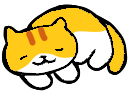
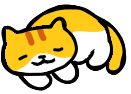
Dynamic Companion Moods, Reoutline Some Cats

Changed region(s): [[0.0, 0.0435, 0.9771, 1.0]]

diff --git a/images.js b/images.js
@@ -5,6 +5,23 @@ export const ImageDirectory = {
         'evening': require('./assets/backgrounds/roomevening.png'),
         'night': require('./assets/backgrounds/roomnight.png'),
     },
+    'angry' : {
+        '1': require('./assets/moods/angry/1.gif'),
+        '2': require('./assets/moods/angry/2.gif'),
+        '3': require('./assets/moods/angry/3.gif'),
+        '4': require('./assets/moods/angry/4.gif'),
+        '5': require('./assets/moods/angry/5.gif'),
+    },
+    'happy' : {
+        '1': require('./assets/moods/happy/1.gif'),
+        '2': require('./assets/moods/happy/2.gif'),
+        '3': require('./assets/moods/happy/3.gif'),
+        '4': require('./assets/moods/happy/4.gif'),
+        '5': require('./assets/moods/happy/5.gif'),
+    },
+    'tired' : {
+        '1' : require('./assets/moods/tired/1.gif'),
+    },
     'mack': {
         '1': require('./assets/mack/mack1.png'),
         '2': require('./assets/mack/mack2.png'),
@@ -20,6 +37,7 @@ export const ImageDirectory = {
         '12': require('./assets/mack/mack12.png'),
         '13': require('./assets/mack/mack13.png'),
         '14': require('./assets/mack/mack14.png'),
+        'angry': require('./assets/mack/mackangry.png'),
     },
     'pickles': {
         '1': require('./assets/pickles/pickles1.png'),
@@ -36,6 +54,7 @@ export const ImageDirectory = {
         '12': require('./assets/pickles/pickles12.png'),
         '13': require('./assets/pickles/pickles13.png'),
         '14': require('./assets/pickles/pickles14.png'),
+        'angry': require('./assets/pickles/picklesangry.png'),
     },
     'pumpkin': {
         '1': require('./assets/pumpkin/pumpkin1.png'),
@@ -52,6 +71,7 @@ export const ImageDirectory = {
         '12': require('./assets/pumpkin/pumpkin12.png'),
         '13': require('./assets/pumpkin/pumpkin13.png'),
         '14': require('./assets/pumpkin/pumpkin14.png'),
+        'angry': require('./assets/pumpkin/pumpkinangry.png'),
     },
     'shadow': {
         '1': require('./assets/shadow/shadow1.png'),
@@ -68,5 +88,23 @@ export const ImageDirectory = {
         '12': require('./assets/shadow/shadow12.png'),
         '13': require('./assets/shadow/shadow13.png'),
         '14': require('./assets/shadow/shadow14.png'),
+        'angry': require('./assets/shadow/shadowangry.png'),
+    },
+    'smokey': {
+        '1': require('./assets/smokey/smokey1.png'),
+        '2': require('./assets/smokey/smokey2.png'),
+        '3': require('./assets/smokey/smokey3.png'),
+        '4': require('./assets/smokey/smokey4.png'),
+        '5': require('./assets/smokey/smokey5.png'),
+        '6': require('./assets/smokey/smokey6.png'),
+        '7': require('./assets/smokey/smokey7.png'),
+        '8': require('./assets/smokey/smokey8.png'),
+        '9': require('./assets/smokey/smokey9.png'),
+        '10': require('./assets/smokey/smokey10.png'),
+        '11': require('./assets/smokey/smokey11.png'),
+        '12': require('./assets/smokey/smokey12.png'),
+        '13': require('./assets/smokey/smokey13.png'),
+        '14': require('./assets/smokey/smokey14.png'),
+        'angry': require('./assets/smokey/smokeyangry.png'),
     }
 }

diff --git a/components/HomePage.js b/components/HomePage.js
@@ -17,6 +17,7 @@ export default function HomePage({ navigation }) {
   const [lastFed, setLastFed] = useState(new Date())
   const [health, setHealth] = useState(100)
   const [inventory, setInventory] = useState({ "bacon": 0, "bread": 0, "chicken": 0, "egg": 0, "meatball": 0, "salmon": 0, "steak": 0, "sushi": 0 })
+  const [mood, setMood] = useState('happy')
 
   useFocusEffect(
     React.useCallback(() => {
@@ -32,8 +33,6 @@ export default function HomePage({ navigation }) {
             setID(data[0].id)
             setSelectedCompanion(data[0].selected_companion);
             setCurrency(data[0].currency)
-            setRandomNo(Math.floor(Math.random() * 14) + 1);
-            setPosition(Math.floor(Math.random() * 3) + 1);
             setLastFed(new Date(data[0].last_fed))
             healthCalculator(new Date(data[0].last_fed))
           }
@@ -43,6 +42,20 @@ export default function HomePage({ navigation }) {
       };
 
       fetchData();
+      setRandomNo(health < 30 ? 'angry' : Math.floor(Math.random() * 14) + 1);
+      setPosition(Math.floor(Math.random() * 3) + 1);
+
+      switch(true) {
+        case (health < 30):
+          setMood('angry')
+          break;
+        case (randomNo <= 2):
+          setMood('tired')
+          break;
+        case (randomNo > 2):
+          setMood('happy')
+          break;
+      }
 
       return () => {
         isActive = false
@@ -314,6 +327,9 @@ export default function HomePage({ navigation }) {
 
       <ScrollView style={{ flex: 1 }} horizontal>
         <ImageBackground source={require('../assets/backgrounds/roomday.png')} style={{ height: '100%', width: 800 }}>
+        <Image
+            source={selectedCompanion != '' ? ImageDirectory[mood][mood == 'tired' ? 1 : Math.floor(Math.random() * 4) + 1] : ImageDirectory['']} 
+            style={selectedCompanion != '' ? styles.companionMood[position] : styles.companionImage[position]} />
           <Image
             source={selectedCompanion != '' ? ImageDirectory[selectedCompanion][randomNo] : ImageDirectory['']}
             // source={ImageDirectory['']} //FOR TESTING PURPOSES -> NEW USERS WHEN THEY DONT HAVE A SELECTED COMPANION
@@ -406,6 +422,32 @@ const styles = StyleSheet.create({
       position: 'absolute',
       bottom: 100,
       right: 200
+    }
+  },
+  companionMood: {
+    '1': {
+      resizeMode: 'contain',
+      position: 'absolute',
+      bottom: 225,
+      left: 150,
+      height: 50,
+      width: 50
+    },
+    '2': {
+      resizeMode: 'contain',
+      position: 'absolute',
+      bottom: 390,
+      left: 150,
+      height: 50,
+      width: 50
+    },
+    '3': {
+      resizeMode: 'contain',
+      position: 'absolute',
+      bottom: 225,
+      right: 250,
+      height: 50,
+      width: 50
     }
   },
   box: {
